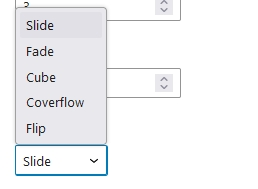
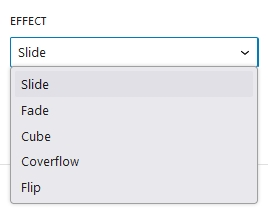
updated cm slider documentation

diff --git a/docs/slider.md b/docs/slider.md
@@ -5,22 +5,24 @@ Cm Slider is a WordPress Blocks that is designed to make the creation of slider 
 ![CM  Block Banner](img/Slider/slider-patterns.jpg)
 
 To use Our blocks you can directly press <b>+</b> button and search for CM Slider block. You can either start building slider from scratch or choose out beautiful prebuild patterns. Currently there are 5 beautiful slider templates available, which you can use it or also can modify as well.
-## Slider Setting and Styles
-Slider options and customization  is categorized into Setting and Styles.
 
-![CM  Block Banner](img/Slider/setting-styles.jpg)
-
-### Slider Setting
+## Slider Setting
 ![CM  Block Banner](img/Slider/slider-setting-effects.jpg)
 
-#### Allow Dragable
-When you enable this option, your slider becomes draggable. If you drag while holding the slider, you will be able to navigate sliders while swiping. This option is effective for mobile users.
+### Effect
+![CM  Block Banner](img/Slider/slider-effect.jpg)
+
+All the effects related setting of our slider are here.
+
+
+#### Allow Draggable
+When you enable this option, your slider becomes draggable. If you drag while holding the slider, you will be able to navigate sliders while swiping. This option is effective for mobile users. Draggable is disabled in backend to prevent confusion to user.
 
 ####  Enable Autoplay
-Enabling this options automatically play the slider. You don't have to navigate between slides using navigation button or by sliding. 
+Enabling this options automatically play the slider. You don't have to navigate between slides using navigation button or by sliding.  To make editing less difficult, this option is also deactivated on the backend.
 
 #### Show Buttons
-It allows you to show next and prev navigation button.
+It allows you to show next and prev navigation button. This option just applies front-end effects to ease user navigation to the required slide on backend.
 
 #### Enable Pagination
 ![CM  Block Banner](img/Slider/slider-pagination.jpg)
@@ -36,7 +38,28 @@ By enabling this option adjust the height of the slider automatically  on the ba
 #### Slider per view
 We can adjust the total no of slider item you want  to show in a screen.
 
-### Slider Styles
+#### Space Between
+Here, you can add the gap(In px) between slider items.
+
+#### Effects
+![CM  Block Banner](img/Slider/slider-effects.jpg)
+
+Five different slider effects are available. Slide, Fade, Cube, Coverflow and Flip.
+
+### Advanced Options
+![CM  Block Banner](img/Slider/advanced-options.jpg)
+
+You can choose how many slider elements to move on a single slide with this option.
+
+> ##### Infinite Loop
+> Total number of slides should be at least double the amount of Slide Per View i.e If Slide Per View is 2, You must have at lest 4 slides.
+> 
+> ##### Slides Per Group
+> This optins determines how many slides to move at a time. Slides Per Group should never exceed Slides Per View.
+
+## Slider Styles
+
+### Navigation 
 ![CM  Block Banner](img/Slider/slider-navigation.jpg)
 
 #### Color and Background
@@ -47,3 +70,8 @@ This options adjust the size of navigation button.
 
 #### Navigation Padding
 Next and Prev Navigation button padding can be adjusted accordingly.
+
+### Pagination 
+![CM  Block Banner](img/Slider/paginastion.jpg)
+
+ The option allows you to choose the color of pagination.
